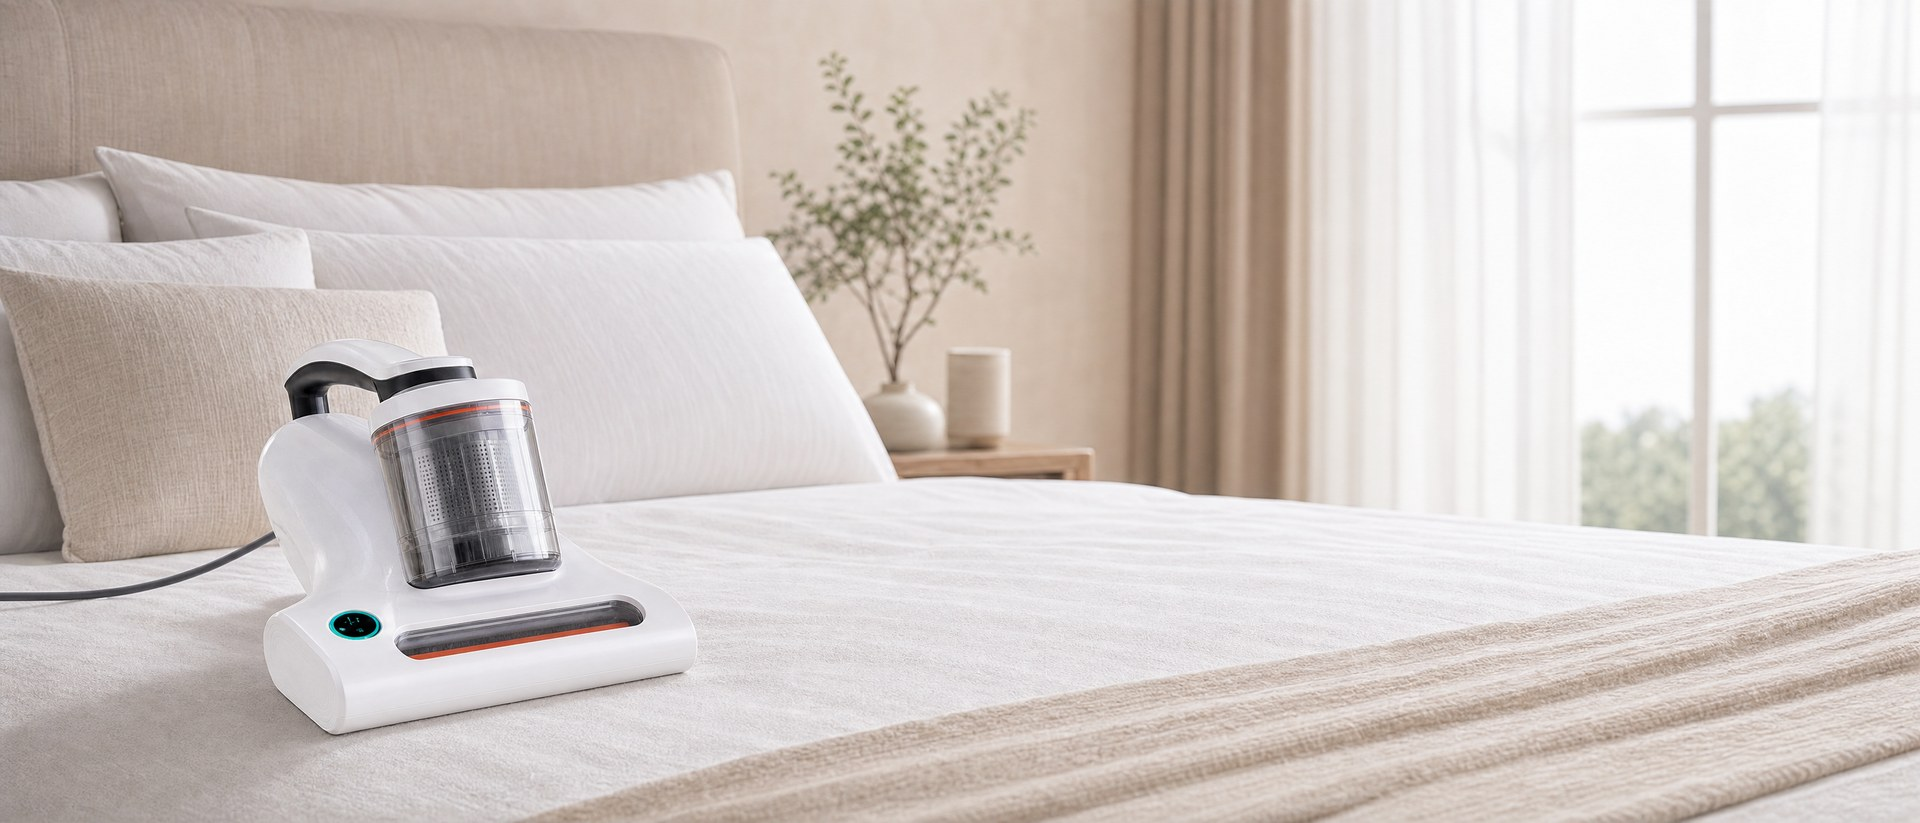
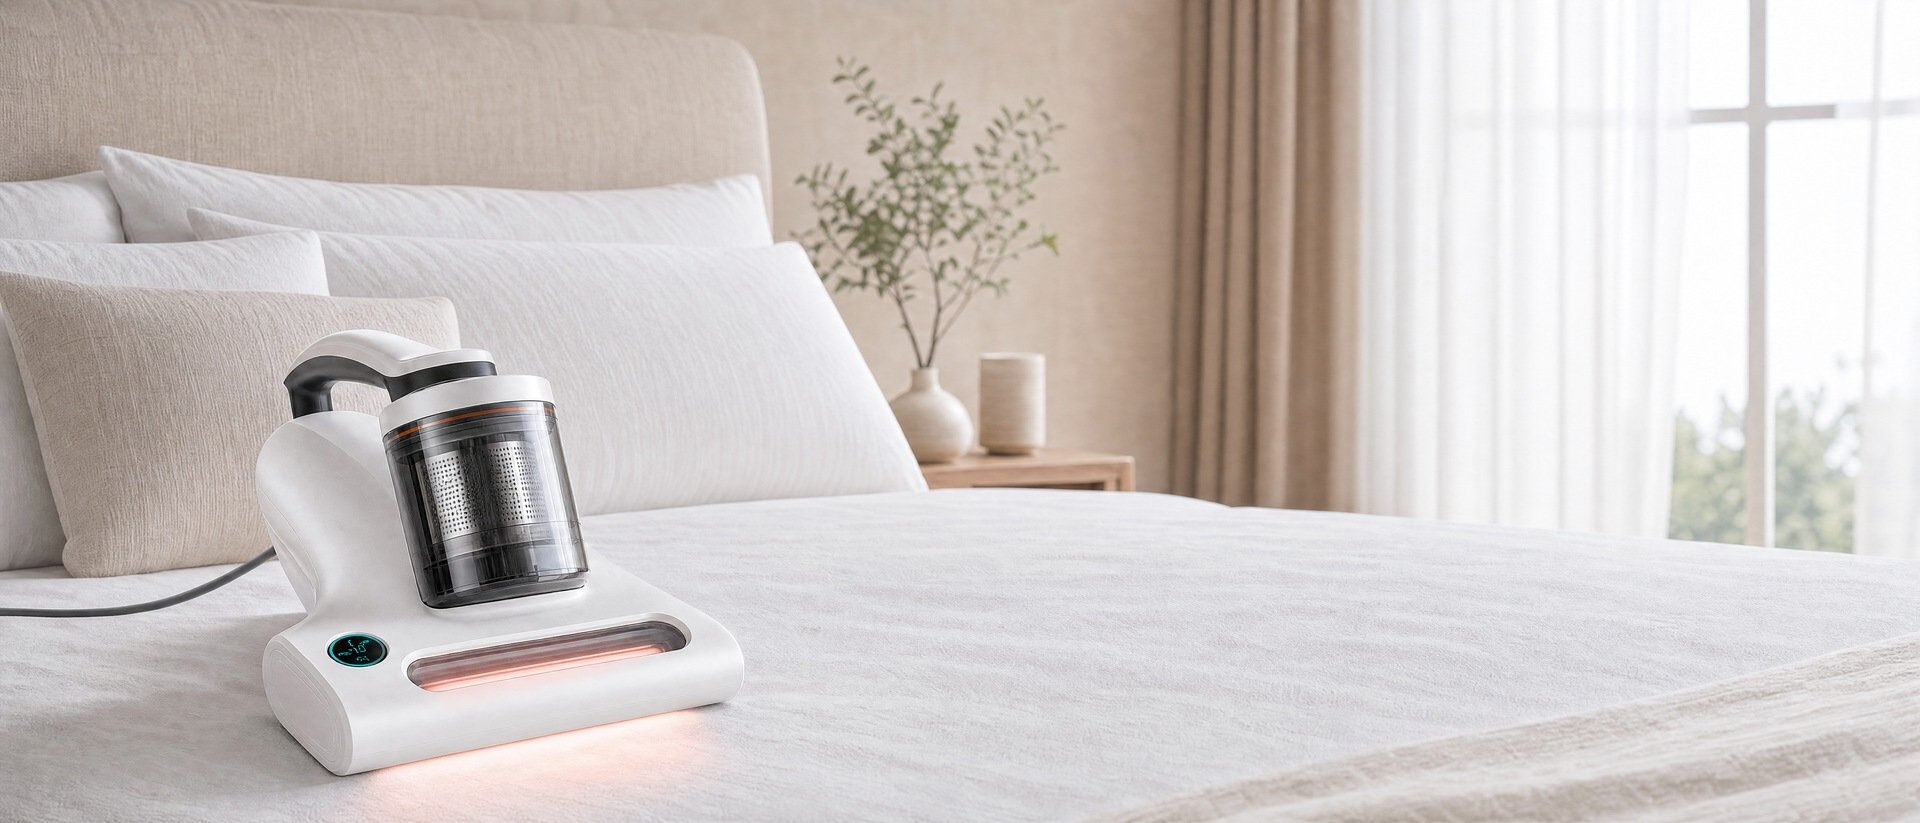
fix(slides): слайд 5 ПК - противоклещевой девайс перегенерён в премиум-виде
Гена: выглядел дёшево/плоско. Перегенерил gpt_image_2 21:9 4k: лепной жемчужный
матовый корпус, дымчатый циклон с металлической сеткой, тонкий оранжевый акцент,
круглый дисплей с тиловой подсветкой (показание клещей), мягкое свечение UV под
щёткой, отражение на простыне. Интерьер спальни сохранён. Ресайз 1920x823. В тему
Shopify + ?v=.

diff --git a/preview-live.html b/preview-live.html
@@ -57,40 +57,40 @@
 <section class="glide glide-hero" data-glide-hero data-autoplay-ms="6000" style="background:#0b1418">
   <div class="glide-slides" data-glide-track>
       <div class="glide-slide is-active" data-glide-slide>
-        <div class="glide-slide-bg" style="--img:url('/slides/vacstation.jpg?v=1788424088');--img-m:url('/slides/vacstation-m.jpg?v=1788424088')"></div>
-        <img class="glide-slide-img glide-slide-img--m" src="/slides/vacstation-m.jpg?v=1788424088" alt="" loading="lazy">
+        <div class="glide-slide-bg" style="--img:url('/slides/vacstation.jpg?v=1788424784');--img-m:url('/slides/vacstation-m.jpg?v=1788424784')"></div>
+        <img class="glide-slide-img glide-slide-img--m" src="/slides/vacstation-m.jpg?v=1788424784" alt="" loading="lazy">
         <div class="glide-wrap"><div class="glide-slide-inner">
           <span class="glide-eyebrow">GlideHome Vac Station</span><h2>It empties itself. And washes its own mops</h2><p>Auto-empty, hot-water mop wash and dry — weeks of hands-off cleaning.</p>
           <div class="glide-slide-cta"><a class="glide-btn glide-btn--primary glide-btn--lg" href="#">Shop Vac Station</a><a class="glide-btn glide-btn--on-dark" href="#">See the station</a></div>
         </div></div>
       </div>
       <div class="glide-slide" data-glide-slide>
-        <div class="glide-slide-bg" style="--img:url('/slides/vac.jpg?v=1788424088');--img-m:url('/slides/vac-m.jpg?v=1788424088')"></div>
-        <img class="glide-slide-img glide-slide-img--m" src="/slides/vac-m.jpg?v=1788424088" alt="" loading="lazy">
+        <div class="glide-slide-bg" style="--img:url('/slides/vac.jpg?v=1788424784');--img-m:url('/slides/vac-m.jpg?v=1788424784')"></div>
+        <img class="glide-slide-img glide-slide-img--m" src="/slides/vac-m.jpg?v=1788424784" alt="" loading="lazy">
         <div class="glide-wrap"><div class="glide-slide-inner">
           <span class="glide-eyebrow">GlideHome Vac Slim</span><h2>Now GlideHome does your floors too</h2><p>A slim robot vacuum that sweeps, vacuums and mops in one pass. Maps the room, avoids obstacles.</p>
           <div class="glide-slide-cta"><a class="glide-btn glide-btn--primary glide-btn--lg" href="#">Shop the vacuum</a></div>
         </div></div>
       </div>
       <div class="glide-slide" data-glide-slide>
-        <div class="glide-slide-bg" style="--img:url('/slides/windowpro.jpg?v=1788424088');--img-m:url('/slides/windowpro-m.jpg?v=1788424088')"></div>
-        <img class="glide-slide-img glide-slide-img--m" src="/slides/windowpro-m.jpg?v=1788424088" alt="" loading="lazy">
+        <div class="glide-slide-bg" style="--img:url('/slides/windowpro.jpg?v=1788424784');--img-m:url('/slides/windowpro-m.jpg?v=1788424784')"></div>
+        <img class="glide-slide-img glide-slide-img--m" src="/slides/windowpro-m.jpg?v=1788424784" alt="" loading="lazy">
         <div class="glide-wrap"><div class="glide-slide-inner">
           <span class="glide-eyebrow">GlideHome Window Pro</span><h2>Full-height glass, cleaned on a planned path</h2><p>AI route mapping, edge detection and a climbing-grade safety line — it holds the pane and never misses a spot.</p>
           <div class="glide-slide-cta"><a class="glide-btn glide-btn--primary glide-btn--lg" href="#">Explore window robots</a></div>
         </div></div>
       </div>
       <div class="glide-slide" data-glide-slide>
-        <div class="glide-slide-bg" style="--img:url('/slides/stickvac.jpg?v=1788424088');--img-m:url('/slides/stickvac-m.jpg?v=1788424088')"></div>
-        <img class="glide-slide-img glide-slide-img--m" src="/slides/stickvac-m.jpg?v=1788424088" alt="" loading="lazy">
+        <div class="glide-slide-bg" style="--img:url('/slides/stickvac.jpg?v=1788424784');--img-m:url('/slides/stickvac-m.jpg?v=1788424784')"></div>
+        <img class="glide-slide-img glide-slide-img--m" src="/slides/stickvac-m.jpg?v=1788424784" alt="" loading="lazy">
         <div class="glide-wrap"><div class="glide-slide-inner">
           <span class="glide-eyebrow">GlideHome Stick V400</span><h2>Cordless power that empties itself</h2><p>190 AW suction, 50 minutes of runtime and a self-emptying dock — grab it and go, put it back clean.</p>
           <div class="glide-slide-cta"><a class="glide-btn glide-btn--primary glide-btn--lg" href="#">Shop Stick V400</a></div>
         </div></div>
       </div>
       <div class="glide-slide" data-glide-slide>
-        <div class="glide-slide-bg" style="--img:url('/slides/antimite.jpg?v=1788424088');--img-m:url('/slides/antimite-m.jpg?v=1788424088')"></div>
-        <img class="glide-slide-img glide-slide-img--m" src="/slides/antimite-m.jpg?v=1788424088" alt="" loading="lazy">
+        <div class="glide-slide-bg" style="--img:url('/slides/antimite.jpg?v=1788424784');--img-m:url('/slides/antimite-m.jpg?v=1788424784')"></div>
+        <img class="glide-slide-img glide-slide-img--m" src="/slides/antimite-m.jpg?v=1788424784" alt="" loading="lazy">
         <div class="glide-wrap"><div class="glide-slide-inner">
           <span class="glide-eyebrow">GlideHome Mite Pro</span><h2>A deeper clean for the bed you spend a third of your life in</h2><p>Tapping, UV, 15,500 Pa suction and warm-air drying — with a live dust-mite readout on the display.</p>
           <div class="glide-slide-cta"><a class="glide-btn glide-btn--primary glide-btn--lg" href="#">Shop Mite Pro</a></div>
@@ -102,13 +102,13 @@
   <div class="glide-dots" data-glide-dots></div>
 </section>
 <section class="glide glide-cats-section"><div class="glide-wrap"><div class="glide-cats">
-      <a class="glide-cat" href="#"><div class="glide-cat-art" style="background-image:url('cats/window.jpg?v=1788424088')"></div>
+      <a class="glide-cat" href="#"><div class="glide-cat-art" style="background-image:url('cats/window.jpg?v=1788424784')"></div>
       <div class="glide-cat-body"><h3>Window Robots</h3><span>Climbs the glass, cleans corner to corner</span><span class="glide-cat-go">Shop window robots →</span></div></a>
-      <a class="glide-cat" href="#"><div class="glide-cat-art" style="background-image:url('cats/vacuum.jpg?v=1788424088')"></div>
+      <a class="glide-cat" href="#"><div class="glide-cat-art" style="background-image:url('cats/vacuum.jpg?v=1788424784')"></div>
       <div class="glide-cat-body"><h3>Robot Vacuums</h3><span>Sweeps, vacuums and mops in one pass</span><span class="glide-cat-go">Shop robot vacuums →</span></div></a>
-      <a class="glide-cat" href="#"><div class="glide-cat-art" style="background-image:url('cats/scrubber.jpg?v=1788424088')"></div>
+      <a class="glide-cat" href="#"><div class="glide-cat-art" style="background-image:url('cats/scrubber.jpg?v=1788424784')"></div>
       <div class="glide-cat-body"><h3>Floor Scrubbers</h3><span>Washes and dries hard floors in one pass</span><span class="glide-cat-go">Shop scrubbers →</span></div></a>
-      <a class="glide-cat" href="#"><div class="glide-cat-art" style="background-image:url('cats/handheld.jpg?v=1788424088')"></div>
+      <a class="glide-cat" href="#"><div class="glide-cat-art" style="background-image:url('cats/handheld.jpg?v=1788424784')"></div>
       <div class="glide-cat-body"><h3>Anti-Mite & Handheld</h3><span>Deep-clean beds, sofas and floors</span><span class="glide-cat-go">Shop handheld →</span></div></a>
 </div></div></section>
 <script src="shopify/glide-home.js" defer></script>

diff --git a/preview-shopify.html b/preview-shopify.html
@@ -57,40 +57,40 @@
 <section class="glide glide-hero" data-glide-hero data-autoplay-ms="6000" style="background:#0b1418">
   <div class="glide-slides" data-glide-track>
       <div class="glide-slide is-active" data-glide-slide>
-        <div class="glide-slide-bg" style="--img:url('/slides/vacstation.jpg?v=1788424088');--img-m:url('/slides/vacstation-m.jpg?v=1788424088')"></div>
-        <img class="glide-slide-img glide-slide-img--m" src="/slides/vacstation-m.jpg?v=1788424088" alt="" loading="lazy">
+        <div class="glide-slide-bg" style="--img:url('/slides/vacstation.jpg?v=1788424784');--img-m:url('/slides/vacstation-m.jpg?v=1788424784')"></div>
+        <img class="glide-slide-img glide-slide-img--m" src="/slides/vacstation-m.jpg?v=1788424784" alt="" loading="lazy">
         <div class="glide-wrap"><div class="glide-slide-inner">
           <span class="glide-eyebrow">GlideHome Vac Station</span><h2>It empties itself. And washes its own mops</h2><p>Auto-empty, hot-water mop wash and dry — weeks of hands-off cleaning.</p>
           <div class="glide-slide-cta"><a class="glide-btn glide-btn--primary glide-btn--lg" href="#">Shop Vac Station</a><a class="glide-btn glide-btn--on-dark" href="#">See the station</a></div>
         </div></div>
       </div>
       <div class="glide-slide" data-glide-slide>
-        <div class="glide-slide-bg" style="--img:url('/slides/vac.jpg?v=1788424088');--img-m:url('/slides/vac-m.jpg?v=1788424088')"></div>
-        <img class="glide-slide-img glide-slide-img--m" src="/slides/vac-m.jpg?v=1788424088" alt="" loading="lazy">
+        <div class="glide-slide-bg" style="--img:url('/slides/vac.jpg?v=1788424784');--img-m:url('/slides/vac-m.jpg?v=1788424784')"></div>
+        <img class="glide-slide-img glide-slide-img--m" src="/slides/vac-m.jpg?v=1788424784" alt="" loading="lazy">
         <div class="glide-wrap"><div class="glide-slide-inner">
           <span class="glide-eyebrow">GlideHome Vac Slim</span><h2>Now GlideHome does your floors too</h2><p>A slim robot vacuum that sweeps, vacuums and mops in one pass. Maps the room, avoids obstacles.</p>
           <div class="glide-slide-cta"><a class="glide-btn glide-btn--primary glide-btn--lg" href="#">Shop the vacuum</a></div>
         </div></div>
       </div>
       <div class="glide-slide" data-glide-slide>
-        <div class="glide-slide-bg" style="--img:url('/slides/windowpro.jpg?v=1788424088');--img-m:url('/slides/windowpro-m.jpg?v=1788424088')"></div>
-        <img class="glide-slide-img glide-slide-img--m" src="/slides/windowpro-m.jpg?v=1788424088" alt="" loading="lazy">
+        <div class="glide-slide-bg" style="--img:url('/slides/windowpro.jpg?v=1788424784');--img-m:url('/slides/windowpro-m.jpg?v=1788424784')"></div>
+        <img class="glide-slide-img glide-slide-img--m" src="/slides/windowpro-m.jpg?v=1788424784" alt="" loading="lazy">
         <div class="glide-wrap"><div class="glide-slide-inner">
           <span class="glide-eyebrow">GlideHome Window Pro</span><h2>Full-height glass, cleaned on a planned path</h2><p>AI route mapping, edge detection and a climbing-grade safety line — it holds the pane and never misses a spot.</p>
           <div class="glide-slide-cta"><a class="glide-btn glide-btn--primary glide-btn--lg" href="#">Explore window robots</a></div>
         </div></div>
       </div>
       <div class="glide-slide" data-glide-slide>
-        <div class="glide-slide-bg" style="--img:url('/slides/stickvac.jpg?v=1788424088');--img-m:url('/slides/stickvac-m.jpg?v=1788424088')"></div>
-        <img class="glide-slide-img glide-slide-img--m" src="/slides/stickvac-m.jpg?v=1788424088" alt="" loading="lazy">
+        <div class="glide-slide-bg" style="--img:url('/slides/stickvac.jpg?v=1788424784');--img-m:url('/slides/stickvac-m.jpg?v=1788424784')"></div>
+        <img class="glide-slide-img glide-slide-img--m" src="/slides/stickvac-m.jpg?v=1788424784" alt="" loading="lazy">
         <div class="glide-wrap"><div class="glide-slide-inner">
           <span class="glide-eyebrow">GlideHome Stick V400</span><h2>Cordless power that empties itself</h2><p>190 AW suction, 50 minutes of runtime and a self-emptying dock — grab it and go, put it back clean.</p>
           <div class="glide-slide-cta"><a class="glide-btn glide-btn--primary glide-btn--lg" href="#">Shop Stick V400</a></div>
         </div></div>
       </div>
       <div class="glide-slide" data-glide-slide>
-        <div class="glide-slide-bg" style="--img:url('/slides/antimite.jpg?v=1788424088');--img-m:url('/slides/antimite-m.jpg?v=1788424088')"></div>
-        <img class="glide-slide-img glide-slide-img--m" src="/slides/antimite-m.jpg?v=1788424088" alt="" loading="lazy">
+        <div class="glide-slide-bg" style="--img:url('/slides/antimite.jpg?v=1788424784');--img-m:url('/slides/antimite-m.jpg?v=1788424784')"></div>
+        <img class="glide-slide-img glide-slide-img--m" src="/slides/antimite-m.jpg?v=1788424784" alt="" loading="lazy">
         <div class="glide-wrap"><div class="glide-slide-inner">
           <span class="glide-eyebrow">GlideHome Mite Pro</span><h2>A deeper clean for the bed you spend a third of your life in</h2><p>Tapping, UV, 15,500 Pa suction and warm-air drying — with a live dust-mite readout on the display.</p>
           <div class="glide-slide-cta"><a class="glide-btn glide-btn--primary glide-btn--lg" href="#">Shop Mite Pro</a></div>
@@ -102,13 +102,13 @@
   <div class="glide-dots" data-glide-dots></div>
 </section>
 <section class="glide glide-cats-section"><div class="glide-wrap"><div class="glide-cats">
-      <a class="glide-cat" href="#"><div class="glide-cat-art" style="background-image:url('cats/window.jpg?v=1788424088')"></div>
+      <a class="glide-cat" href="#"><div class="glide-cat-art" style="background-image:url('cats/window.jpg?v=1788424784')"></div>
       <div class="glide-cat-body"><h3>Window Robots</h3><span>Climbs the glass, cleans corner to corner</span><span class="glide-cat-go">Shop window robots →</span></div></a>
-      <a class="glide-cat" href="#"><div class="glide-cat-art" style="background-image:url('cats/vacuum.jpg?v=1788424088')"></div>
+      <a class="glide-cat" href="#"><div class="glide-cat-art" style="background-image:url('cats/vacuum.jpg?v=1788424784')"></div>
       <div class="glide-cat-body"><h3>Robot Vacuums</h3><span>Sweeps, vacuums and mops in one pass</span><span class="glide-cat-go">Shop robot vacuums →</span></div></a>
-      <a class="glide-cat" href="#"><div class="glide-cat-art" style="background-image:url('cats/scrubber.jpg?v=1788424088')"></div>
+      <a class="glide-cat" href="#"><div class="glide-cat-art" style="background-image:url('cats/scrubber.jpg?v=1788424784')"></div>
       <div class="glide-cat-body"><h3>Floor Scrubbers</h3><span>Washes and dries hard floors in one pass</span><span class="glide-cat-go">Shop scrubbers →</span></div></a>
-      <a class="glide-cat" href="#"><div class="glide-cat-art" style="background-image:url('cats/handheld.jpg?v=1788424088')"></div>
+      <a class="glide-cat" href="#"><div class="glide-cat-art" style="background-image:url('cats/handheld.jpg?v=1788424784')"></div>
       <div class="glide-cat-body"><h3>Anti-Mite & Handheld</h3><span>Deep-clean beds, sofas and floors</span><span class="glide-cat-go">Shop handheld →</span></div></a>
 </div></div></section>
 <script src="shopify/glide-home.js" defer></script>
